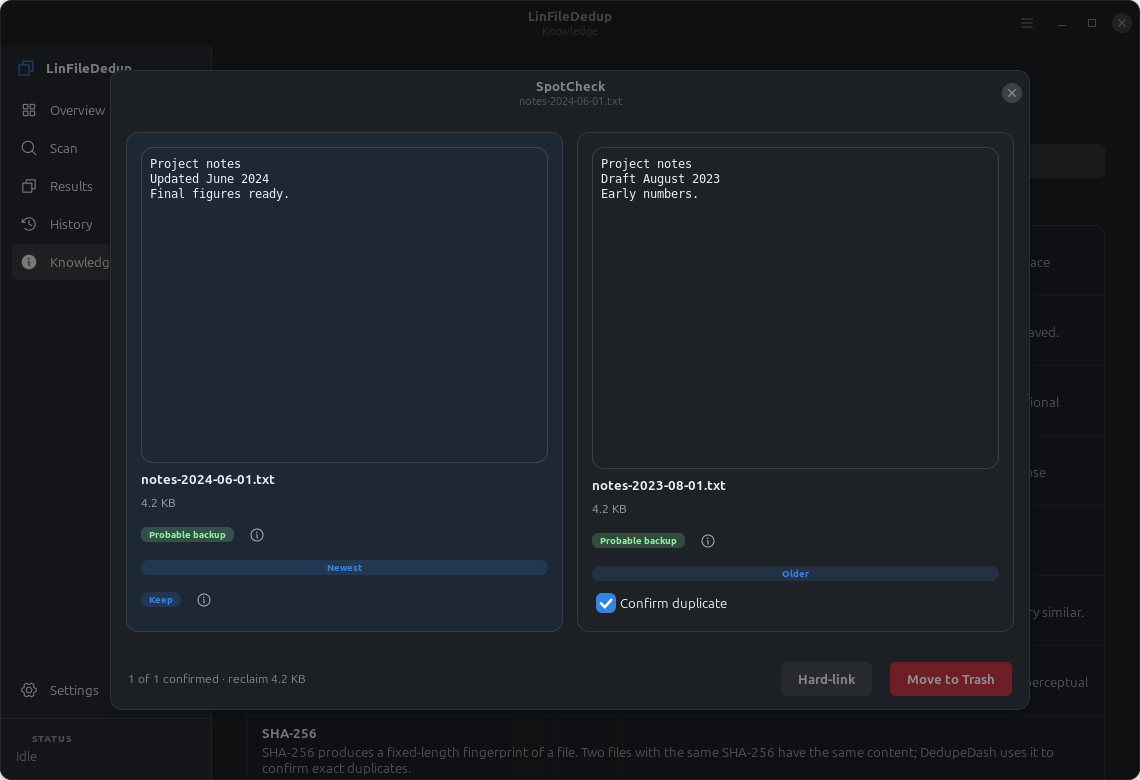
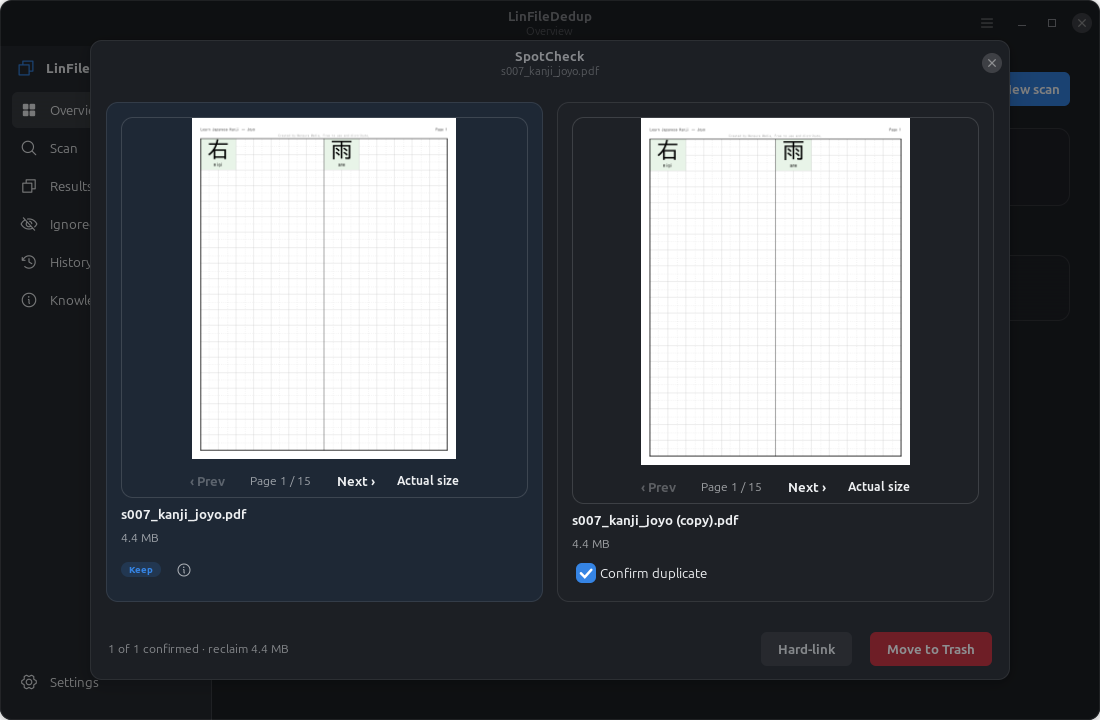
README: regenerate feature list and refresh screenshots
- Refreshed screenshots to the current UI: Results hero (savings chart,
  keep-rules card, action bar, per-group buttons, red/green markers),
  Scan (Start-scan top-right, file-type filter + All Files + Enter
  Extension), the percentage ring loader, and the new Ignored page.
  Added spotcheck/ignored/scan-ring; removed the stale radar gif/png.
- Rewrote the feature list: dual pHash+dHash images, transparent keep
  policy + keep-rules card, space-savings chart, SpotCheck PDF pages +
  video player, file-type filter + custom extensions, ignore files/folders
  + Ignored page, scrollable Trash confirm, real-progress percentage loader,
  and memory-safe huge scans. Updated usage, install recommends, roadmap.

diff --git a/README.md b/README.md
@@ -18,7 +18,7 @@ nothing is changed until you review the groups and confirm, and removals go to T
 ## Table of contents
 
 - [Feature tour](#feature-tour)
-- [Everything LinFileDedup does](#everything-dedupedash-does)
+- [Everything LinFileDedup does](#everything-linfilededuplication-does)
 - [Desktop integration](#desktop-integration)
 - [Install](#install)
 - [Usage](#usage)
@@ -34,8 +34,9 @@ nothing is changed until you review the groups and confirm, and removals go to T
 
 ### SpotCheck — confirm before you remove
 
-A large side-by-side view of a duplicate group. See each file's real content — full image
-previews or readable document snippets — with the keeper first, so you can be sure before
+A large side-by-side view of a duplicate group. See each file's real content — full **image**
+previews, a page-by-page **PDF** viewer (synced across panels, with zoom), an inline **video**
+player (with thumbnails), or readable document snippets — keeper first, so you can be sure before
 acting. It is a gate, not an actor: closing it changes nothing.
 
 ![SpotCheck](docs/screenshots/spotcheck.png)
@@ -50,11 +51,17 @@ acting. It is a gate, not an actor: closing it changes nothing.
 | --- | --- |
 | ![Scan scope](docs/screenshots/settings-scope.png) | |
 
+### Scan scope & ignored items
+
+| Scan — tiers, file-type filter, custom extensions | Ignored — files & folders you skip |
+| --- | --- |
+| ![Scan](docs/screenshots/scan.png) | ![Ignored](docs/screenshots/ignored.png) |
+
 ### The basics
 
-| Overview | Scan |
+| Overview | Live progress — a real percentage |
 | --- | --- |
-| ![Overview](docs/screenshots/overview.png) | ![Scan](docs/screenshots/scan.png) |
+| ![Overview](docs/screenshots/overview.png) | ![Scanning](docs/screenshots/scan-ring.png) |
 
 Interactive design mockups (light and dark) live in
 [`docs/mockups/dedupedash-mockups.html`](docs/mockups/dedupedash-mockups.html).
@@ -68,8 +75,10 @@ Interactive design mockups (light and dark) live in
 - **Exact duplicates** — a fast, layered pipeline: size pre-filter → progressive partial hash
   (xxHash or BLAKE2b) → full **SHA-256** → optional **byte-for-byte** verification. A match is
   a real match, never a hash coincidence.
-- **Image near-duplicates** — perceptual hashing (aHash/dHash/pHash) groups images that look
-  the same after resizing, cropping, or re-saving, with a tunable Hamming-distance threshold.
+- **Image near-duplicates** — perceptual hashing groups images that look the same after resizing,
+  cropping, or re-saving, with a tunable Hamming-distance threshold. Matching requires **both
+  pHash and dHash to agree**, which filters out the smooth-image false positives that a single
+  hash produces — found and fixed by testing on a real 400+ photo set.
 - **Near-identical content (Advanced)** — **content-defined chunking** fingerprints files by
   shift-resistant anchors and groups documents that share most content even after an edit or
   insertion.
@@ -85,11 +94,20 @@ Interactive design mockups (light and dark) live in
 - **Advanced Scan** — adds the content-similarity, fuzzy, and metadata passes for documents
   and binaries, plus finer control.
 
-### Keep policy
+### Keep policy — and it's transparent
 
 Every group keeps exactly one file (the **keeper**); the rest become candidates. The order:
 highest resolution (images) → largest size → original (non-derived) filename → preferred folder
-→ oldest file. Nothing derived is ever kept over an original.
+→ oldest file. Nothing derived is ever kept over an original. Results shows a **"How LinFileDedup
+decides what to keep"** card that spells out these rules (newest / largest / backups / name /
+hard-linked), so the automatic choices are never a mystery.
+
+### Space savings at a glance
+
+When a scan finishes, Results leads with a headline — **"You can free up N GB"** — and a
+before/after **capacity-bar chart** (space now vs. after cleanup), so the payoff is clear before
+you act. Results are revealed only once the progress loader reaches 100% and fades, never
+half-formed.
 
 ### Backup awareness
 
@@ -103,17 +121,26 @@ highest resolution (images) → largest size → original (non-derived) filename
 ### SpotCheck & content previews
 
 - Large keeper-first comparison of a group, opened from Results.
-- **Preview providers** show read-only snippets by type: full **images**; first lines of
-  **text/code/config**; first-page text of **PDF** (via poppler or pypdf); paragraphs / sheet
-  names of **office** documents (docx/odt/pptx/xlsx); entry lists of **archives**; and a
-  metadata card for anything else. Providers never execute a file, follow links out, or touch
-  the network, and are bounded by size/time budgets.
+- **Images** render full; **PDFs** render as actual pages in a page-by-page viewer (Prev/Next,
+  page N of M, actual-size zoom) that's **synced across panels** for a true A/B compare;
+  **videos** get a thumbnail and an inline player (or "Play in default player" when the GTK media
+  backend isn't installed).
+- **Preview providers** show read-only snippets for everything else: first lines of
+  **text/code/config**; paragraphs / sheet names of **office** documents (docx/odt/pptx/xlsx);
+  entry lists of **archives**; and a metadata card as a fallback. Providers never execute a file,
+  follow links out, or touch the network, and are bounded by size/time budgets.
 
-### Scan scope (exclusions)
+### Choose exactly what to scan
 
-Presets that skip files an app or the OS can recreate — **system files, caches, package/build
-artifacts, version-control internals, app/runtime files, stubs, and Trash** — plus custom
-globs. Excluded paths are never scanned **and never removable**.
+- **File-type filter** — columns of popular types (**Images / Video / Music / Documents**), each
+  with a tri-state **All**, plus a master **All Files**, and a free-text **Enter Extension** field
+  for anything else (e.g. `.bak, .csv, .idx`) that's *added* to your selections.
+- **Scan scope (exclusions)** — presets that skip files an app or the OS can recreate (**system
+  files, caches, package/build artifacts, version-control internals, Trash**) plus custom globs.
+  Excluded paths are never scanned and never removable.
+- **Ignore files & folders** — on Results, **Ignore Files** or **Ignore Folder** greys out rows
+  (no action taken) and skips them in **every future scan**; the dedicated **Ignored** page lists
+  everything you've skipped, with **Resume scanning** on any entry.
 
 ### In-app guidance
 
@@ -124,11 +151,22 @@ globs. Excluded paths are never scanned **and never removable**.
 
 ### Safety
 
-- Read-only scans; nothing removed without an `Adw.AlertDialog` confirmation.
-- **Dry-run preview** by default; **Move to Trash** (recoverable) or **hard-link** (reclaim
-  space, keep every path) instead of permanent deletion.
-- Protected system paths refused; a group's keeper can never be deleted; unreadable groups are
-  skipped, never treated as removable.
+- Read-only scans; nothing removed without an `Adw.AlertDialog` confirmation — which lists the
+  affected files in a scrollable, non-wrapping list so you can review before you commit.
+- **Delete All Duplicates** → **Move to Trash** (recoverable) or **Hard-link** (reclaim space,
+  keep every path) instead of permanent deletion. A per-group **Delete All** can remove every
+  copy when you want none kept (Trash-only, with a clear guard and confirmation).
+- Protected system paths refused; a group's keeper can never be deleted by accident; unreadable
+  groups are skipped, never treated as removable.
+
+### Progress & performance
+
+- A circular **percentage loader** shows the **true ratio of files scanned** (not a cosmetic
+  spinner): every file counts, each hashed candidate and perceptually-hashed image advances it,
+  and it eases to 100% before the results appear.
+- **Memory-safe on huge scans** — thumbnails decode scaled (not full-resolution), rendered group
+  cards are capped, and the file model is slot-based, so a full home-directory scan stays bounded
+  (hundreds of MB, not gigabytes).
 
 ### Desktop-native
 
@@ -160,9 +198,10 @@ sudo apt install ./dist/linfilededuplication_0.1.0_all.deb
 ```
 
 Depends on `python3-gi`, `python3-gi-cairo`, `gir1.2-gtk-4.0`, `gir1.2-adw-1`. Recommends
-`python3-pil`, `python3-imagehash`, `python3-xxhash`, `gir1.2-xapp-1.0` (tray). Suggests
-`python3-tlsh` (fuzzy) and `poppler-utils` (PDF previews). Optional pieces are detected at
-runtime and degrade gracefully when absent.
+`python3-pil`, `python3-imagehash`, `python3-xxhash`, `gir1.2-xapp-1.0` (tray), `poppler-utils`
+(PDF pages), `libgtk-4-media-gstreamer` (SpotCheck video playback), and `ffmpegthumbnailer`
+(video thumbnails). Suggests `python3-tlsh` (fuzzy). Optional pieces are detected at runtime and
+degrade gracefully when absent.
 
 ### From source (development)
 
@@ -187,19 +226,21 @@ scripts/uninstall.sh          # remove
 
 ## Usage
 
-1. Open **Scan**, choose a folder, pick **Simple** or **Advanced**, and start.
-2. Watch duplicate groups appear on **Results** as the scan runs.
-3. Review each group — the keeper is highlighted; extras are pre-selected. Open **SpotCheck**
-   to compare content, and check the **Probable backup** / **Newest / Older** markers.
-4. Choose **Move to Trash** or **Hard-link**, confirm, and reclaim the space.
+1. Open **Scan**, choose a folder, pick **Simple** or **Advanced**, optionally narrow the
+   **file types**, and start (the button is top-right on the tier row).
+2. A circular **percentage loader** shows the real progress as files are scanned; when it reaches
+   100% and fades, **Results** appears with a **"You can free up N GB"** headline and the
+   before/after chart.
+3. Review each group — the keeper shows a green check, candidates a red one. Open **SpotCheck**
+   to compare content, and check the **Probable backup** / **Newest / Older** markers. Right-click
+   a row for **Explore here / Open / Copy path**; use **Ignore Files/Folder** to skip things.
+4. Choose **Hard-link** or **Delete All Duplicates**, review the file list, confirm, and reclaim
+   the space.
 
-While a scan runs, a **radar-sweep** indicator appears in the header bar — kept visible for a
-moment even on a sub-second scan, so you always see that work happened:
+![Live progress](docs/screenshots/scan-ring.png)
 
-![Scanning indicator](docs/screenshots/scan-radar.gif)
-
-Tune matching, backups, safety, and **Scan scope** in **Settings**. Hover any `(i)` for help,
-or open **Knowledge** to search terms.
+Tune matching, backups, safety, and **Scan scope** in **Settings**; manage skipped items on the
+**Ignored** page. Hover any `(i)` for help, or open **Knowledge** to search terms.
 
 ---
 
@@ -218,6 +259,7 @@ src/linfilededuplication/
     metadata.py         EXIF + filename similarity
     backup_detect.py    probable-backup signals + age ranking
     exclusions.py       scan-scope presets + custom globs
+    filetypes.py        popular file-type categories for the scan filter
     policy.py           keep/delete ranking (incl. keep-newest for backups)
     preview.py          read-only content previews for SpotCheck
     glossary.py         load + search the local glossary/FAQ
@@ -255,11 +297,13 @@ blocked, so a stray GTK import fails the build.
 
 ## Roadmap
 
-Done: the exact engine, image near-duplicates, Advanced Scan (content similarity, fuzzy,
-metadata), backups, SpotCheck, previews, exclusions, info icons, the Knowledge page, and desktop
-integration (launcher, menu, tray, Alt-Tab, icon, `.deb`). Next: a headless CLI, a Flatpak,
-SpotCheck synced-zoom and A/B difference view, and audio/video preview providers. Details in
-[`docs/CONCEPT.md`](docs/CONCEPT.md).
+Done: the exact engine, image near-duplicates (dual pHash+dHash), Advanced Scan (content
+similarity, fuzzy, metadata), backups, SpotCheck with synced PDF pages and an inline video player,
+previews, exclusions, the file-type filter and custom extensions, ignore files/folders and the
+Ignored page, the space-savings chart and keep-rules card, the real-progress percentage loader,
+info icons, the Knowledge page, and desktop integration (launcher, menu, tray, Alt-Tab, icon,
+`.deb`). Next: a persistent scan **History**, a headless CLI, a Flatpak, and a SpotCheck A/B
+difference view. Details in [`docs/CONCEPT.md`](docs/CONCEPT.md).
 
 ---
 
